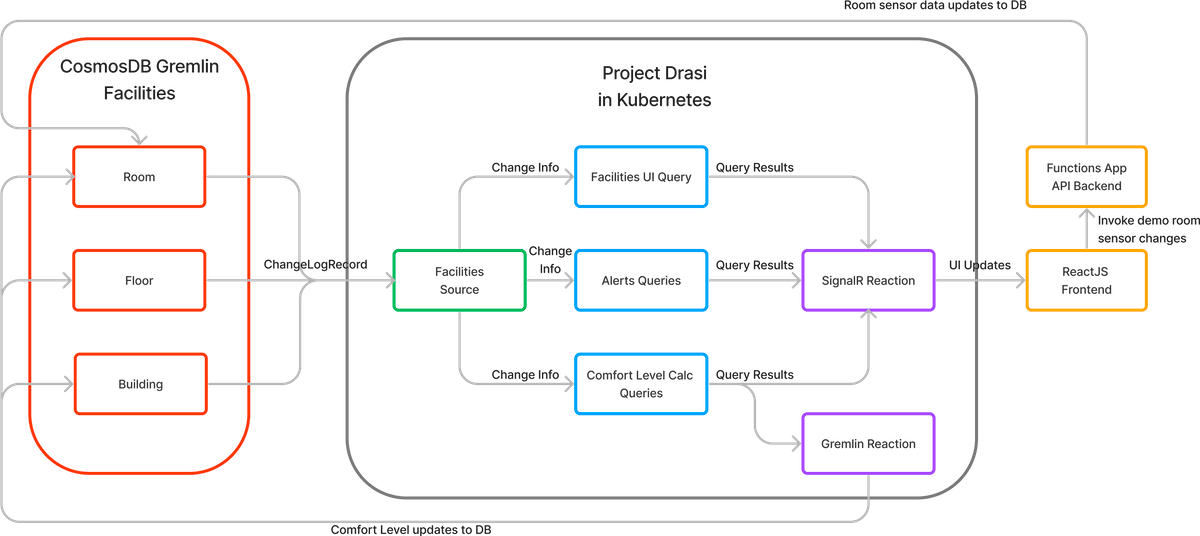
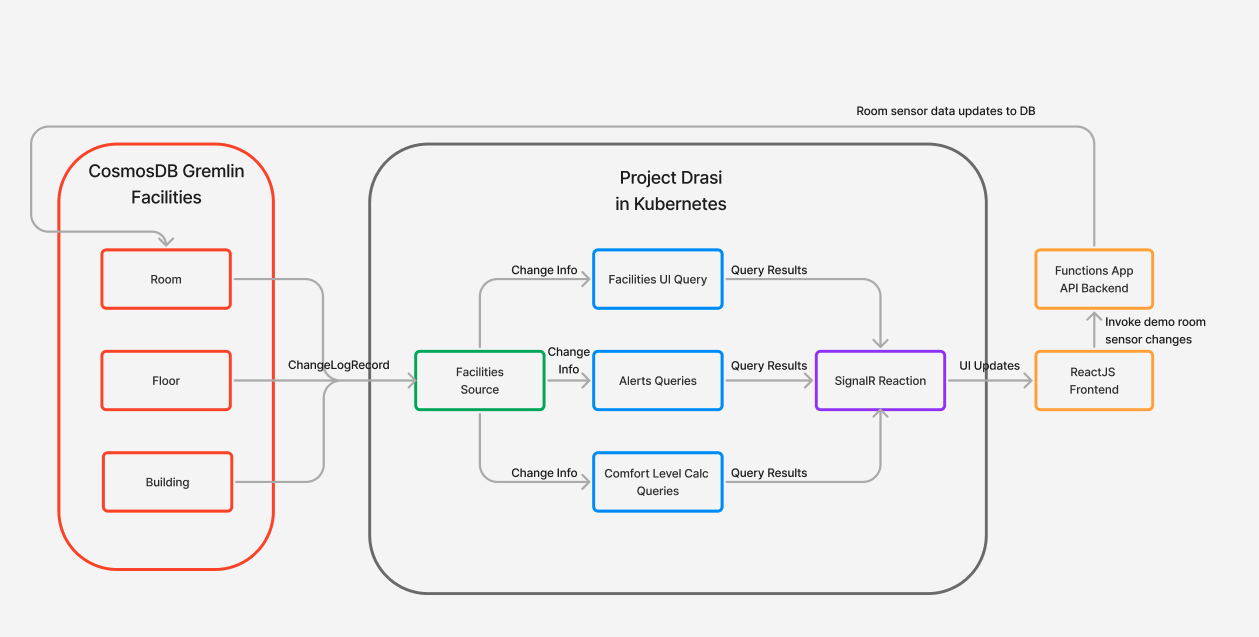
doc site changes for building comfort

Changed region(s): [[0.0, 0.0, 1.0, 1.0], [0.4933, 0.1194, 0.5858, 0.1493], [0.2775, 0.0896, 0.3083, 0.1493]]

diff --git a/docs/content/administrator/sample-app-deployment/building-comfort/_index.md b/docs/content/administrator/sample-app-deployment/building-comfort/_index.md
@@ -15,7 +15,7 @@ description: >
 - [Azure CLI 2.40](https://docs.microsoft.com/en-us/cli/azure/install-azure-cli) or higher.
 - [Azure Functions Core Tools 4.0](https://learn.microsoft.com/en-us/azure/azure-functions/functions-run-local?tabs=v4%2Cmacos%2Ccsharp%2Cportal%2Cbash#install-the-azure-functions-core-tools) or higher.
 - A Kubernetes cluster with [Project Drasi deployed]({{< ref platform-deployment >}}).
-- A clone of the [Project Drasi Git repository](https://dev.azure.com/azure-octo/Incubations/_git/ReactiveGraph?path=%2F&version=GBdevelop&_a=contents) on your local machine.
+- A clone of the [Project Drasi Learning repository](https://github.com/drasi-project/learning) on your local machine.
 
 ## Overview of the app
 
@@ -23,7 +23,6 @@ This application illustrates the use of Project Drasi for a hypothetical buildin
 
 - The use of Continuous Queries over a Cosmos Gremlin database.
 - Continuous Queries that include aggregations across hierarchical graph data.
-- The use of the Gremlin Reaction to update a Gremlin database based on the output of a Continuous Query.
 - The use of the SignalR Reaction to integrate Continuous Query output with a React JS Application.
 
 In this sample, Continuous Queries are used to calculate a _comfort level_ metric for building management. This is a human-centric measurement that combines the physical measurements in a room such as temperature, humidity, and CO2 levels into a perceptual rating of its comfort. For the purposes of this sample, the comfort level will be calculated dynamically for a room from the physical measurements using the simplified formula:
@@ -38,13 +37,12 @@ The app will provide a dashboard frontend to visualize the comfort levels of roo
 
 ### App Architecture
 
-![Architecture](building-comfort-arch.png)
+![Architecture](builiding-comfort-arch-new.png)
 
 This app consists of:
 
 - A Source getting changes to building environment data from Cosmos DB.
 - Several Continuous Queries that calculate comfort levels and alerts for the rooms, as well as aggregate values for the floors and building as a whole.
-- A Gremlin Reaction that updates the Cosmos DB database with the calculated comfort levels and aggregate values based on changes in the room environment measurements.
 - A SignalR Reaction that receives changes and forwards them to any connected front end clients.
 - An Azure Function App that provides HTTP endpoints for the demo app to directly change the environment values in the database.
 - A React frontend that invokes updates via the Function App and listens for changes via the SignalR reaction.
@@ -119,7 +117,7 @@ You can also look up the `SourceAccountEndpoint` value in the Azure portal or by
 az cosmosdb keys list --name my-drasi-db -g my-resource-group --type connection-strings --query "connectionStrings[?contains(description, 'Primary Gremlin Connection String')].[connectionString]" -o tsv
 ```
 
-From the `apps/building-comfort/devops/reactive-graph` folder, apply the `source-facilities.yaml` file with the drasi CLI to your cluster:
+From the `apps/building-comfort/devops/drasi` folder, apply the `source-facilities.yaml` file with the drasi CLI to your cluster:
 
 ```bash
 drasi apply -f source-facilities.yaml
@@ -127,7 +125,7 @@ drasi apply -f source-facilities.yaml
 
 #### Deploy the queries
 
-From the `apps/building-comfort/devops/reactive-graph` folder, use the drasi CLI to deploy the continuous queries:
+From the `apps/building-comfort/devops/drasi` folder, use the drasi CLI to deploy the continuous queries:
 
 ```bash
 drasi apply -f query-alert.yaml
@@ -144,29 +142,17 @@ Breaking down the Continuous Queries specified in each file:
 - `query-ui.yaml` query gets the relevant properties and the relationships between rooms, floors and the building for visualization in the frontend React app.
 
 #### Deploy the reactions
-
-To deploy the gremlin reaction, we need to create another secret using `kubectl` to specify your Gremlin graph in the Cosmos DB instance:
-
-```bash
-kubectl create secret generic comfy-creds --from-literal=DatabaseHost=${DatabaseHost} --from-literal=DatabasePrimaryKey='${DatabasePrimaryKey}'
-```
-
-- `DatabaseHost` with the host DNS name for the Gremlin endpoint. This is the same as the `cosmosUri` in `config.py` without the `wss://` prefix or the port number.
-- `DatabasePrimaryKey` with the primary key, same as the `cosmosPassword` in `config.py`.
-
-Apply the `reaction-gremlin.yaml` file and the `reaction-signalr.yaml` file with the drasi CLI to your cluster:
+Apply the `reaction-signalr.yaml` file with the drasi CLI to your cluster:
 
 ```bash
-drasi apply -f reaction-gremlin.yaml
 drasi apply -f reaction-signalr.yaml
 ```
-
-The Gremlin Reaction is used to update the graph in Cosmos DB with the latest comfort level for each room, floor, and building. The SignalR Reaction is used to send the updates of the UI query to the frontend React app.
+The SignalR Reaction is used to send the updates of the UI query to the frontend React app.
 
 To connect the React app to the SignalR Reaction, forward the gateway port for the SignalR reaction to a port on your local machine:
 
 ```bash
-kubectl port-forward services/signalr-building-gateway 5001:8080 -n default
+kubectl port-forward services/signalr-building-gateway 5001:8080 -n drasi-system
 ```
 
 ### 3. Run the demo backend and frontend

diff --git a/readme.md b/readme.md
@@ -5,7 +5,7 @@ The documentation website, located in the ```docs/docs``` folder is created with
 
 1. Install [Hugo](https://gohugo.io/)
 1. Run ```git submodule update --init --recursive --remote``` to pull Docsy code that is configured as a submodule.
-1. In the ```docs/docs/themes/docsy``` folder, run the command ```npm i```
+1. In the ```docs/themes/docsy``` folder, run the command ```npm i```
 
 ## Running Locally
 To run the documentation website locally:
